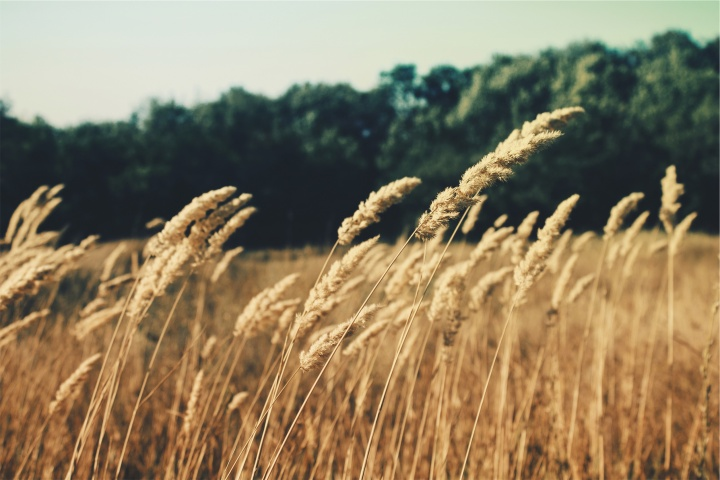
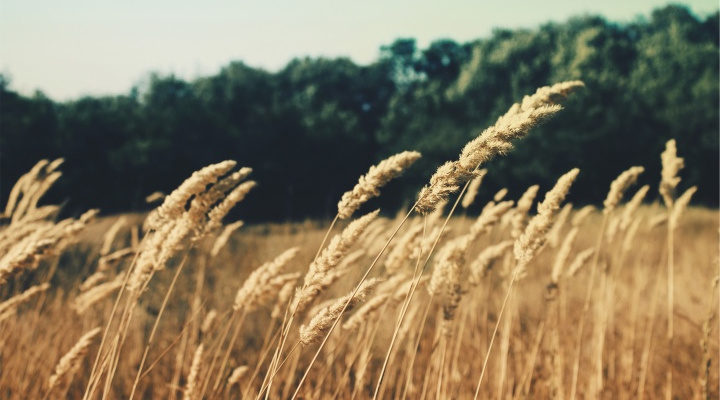
Reformatted top row of some of the pages.

diff --git a/assets/css/app.scss b/assets/css/app.scss
@@ -49,6 +49,7 @@ footer {
   height: 60%;
 }
 
+/************ HOME page ****************************/
 .john812 {
   background-image: url('/images/sun_clouds.png');
   height: 400px;
@@ -120,8 +121,10 @@ hr {
   background: #a8e0f4;
 }
 
+/************ ABOUT page ****************************/
 #about_row {
   background: #6b9de8;
+  height: 400px;
 }
 
 #about_us {
@@ -242,16 +245,11 @@ hr#services {
 
 .donate_sponsor {
   background-image: url('/images/barley_field.jpg');
-  height: 320px;
+  height: 400px;
   width: 100%;
   background-repeat: no-repeat;
   background-position: center center;
-  background-attachment: fixed;
-  -webkit-background-size: cover;
-  -moz-background-size: cover;
-  -o-background-size: cover;
   background-size: cover;
-  text-align: center;
 }
 
 #donate_barley_title {
@@ -259,6 +257,7 @@ hr#services {
   color: #8B0000;
   font-size: 30px;
   font-family: "palatino linotype", serif;
+  background-color: rgba(233,229,208,0.5);
 }
 
 #donate_barley_text {
@@ -266,6 +265,7 @@ hr#services {
   line-height: 1.5em;
   font-family: "open sans", sans-serif;
   color: #440506;
+  background-color: rgba(233,229,208,0.5);
 }
 
 .card.donate {
@@ -314,17 +314,12 @@ svg {
 }
 
 .events_faithful {
-  background-image: url('/images/god_is_faithful.jpg');
-  height: 320px;
+  background-image: url('/images/god_is_faithful.png');
+  height: 400px;
   width: 100%;
   background-repeat: no-repeat;
   background-position: center center;
-  background-attachment: fixed;
-  -webkit-background-size: cover;
-  -moz-background-size: cover;
-  -o-background-size: cover;
   background-size: cover;
-  text-align: center;
 }
 
 #events_faithful_title {
@@ -332,6 +327,7 @@ svg {
   color: #880A0C;
   font-size: 30px;
   font-family: "palatino linotype", serif;
+  background-color: rgba(233,229,208,0.5);
 }
 
 #events_faithful_text {
@@ -340,6 +336,7 @@ svg {
   text-align: center;
   font-size: 14px;
   font-family: "open sans", sans-serif;
+  background-color: rgba(233,229,208,0.5);
 }
 
 #events_cards {
@@ -370,16 +367,11 @@ div.card-body.events {
   background-image: 
     linear-gradient(to bottom, rgba(70,182,224,0.5), rgba(70,182,224,0.5)),
     url('/images/praying_together.webp');
-  height: 320px;
+  height: 400px;
   width: 100%;
   background-repeat: no-repeat;
   background-position: center center;
-  background-attachment: fixed;
-  -webkit-background-size: cover;
-  -moz-background-size: cover;
-  -o-background-size: cover;
   background-size: cover;
-  text-align: center;
 }
 
 #contact_ways_title {
@@ -387,6 +379,7 @@ div.card-body.events {
   color: #880A0C;
   font-size: 30px;
   font-family: "palatino linotype", serif;
+  background-color: rgba(233,229,208,0.5);
 }
 
 #contact_ways_text {
@@ -395,6 +388,7 @@ div.card-body.events {
   text-align: center;
   font-size: 19px;
   font-family: "open sans", sans-serif;
+  background-color: rgba(233,229,208,0.5);
 }
 
 
